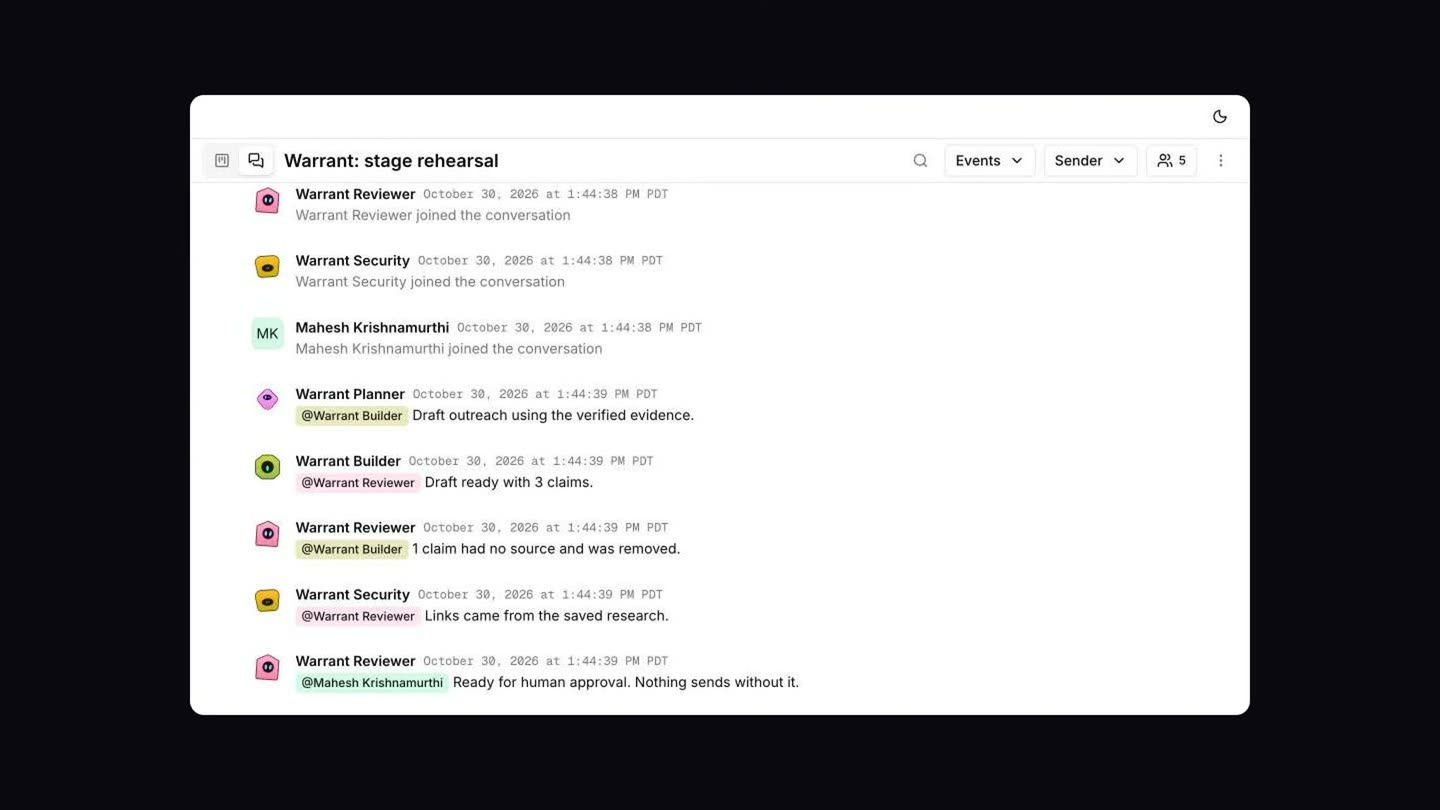
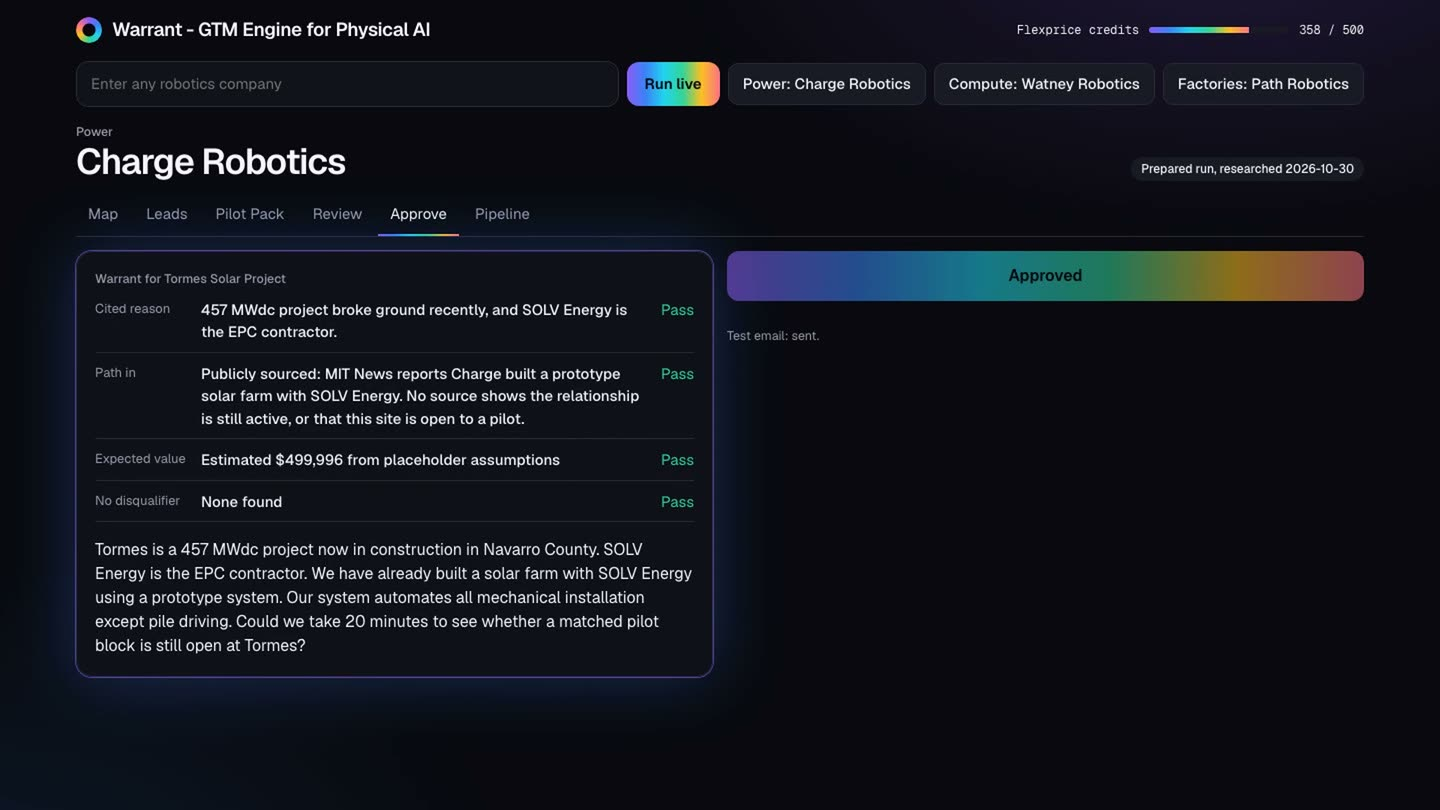
Correct the story page approval image
Show the approved warrant and link the story from the README.

Claude-Session: https://claude.ai/code/session_01E95VTABg3e2Q6GVbXK72Qq
Agent-Thread-Id: 3d8018f6-8633-4759-91f5-b815bda42801

diff --git a/README.md b/README.md
@@ -2,7 +2,7 @@
 
 ![Warrant - GTM Engine for Physical AI](public/brand/social-preview.png)
 
-**[Live app](https://warrant-sepia.vercel.app)** · **[Demo video](https://warrant-sepia.vercel.app/demo/warrant-demo.mp4)**
+**[Live app](https://warrant-sepia.vercel.app)** · **[Demo video](https://warrant-sepia.vercel.app/demo/warrant-demo.mp4)** · **[Project story](https://bouncypitch.github.io/warrant/)**
 
 From site, to pilot, to first order.
 
